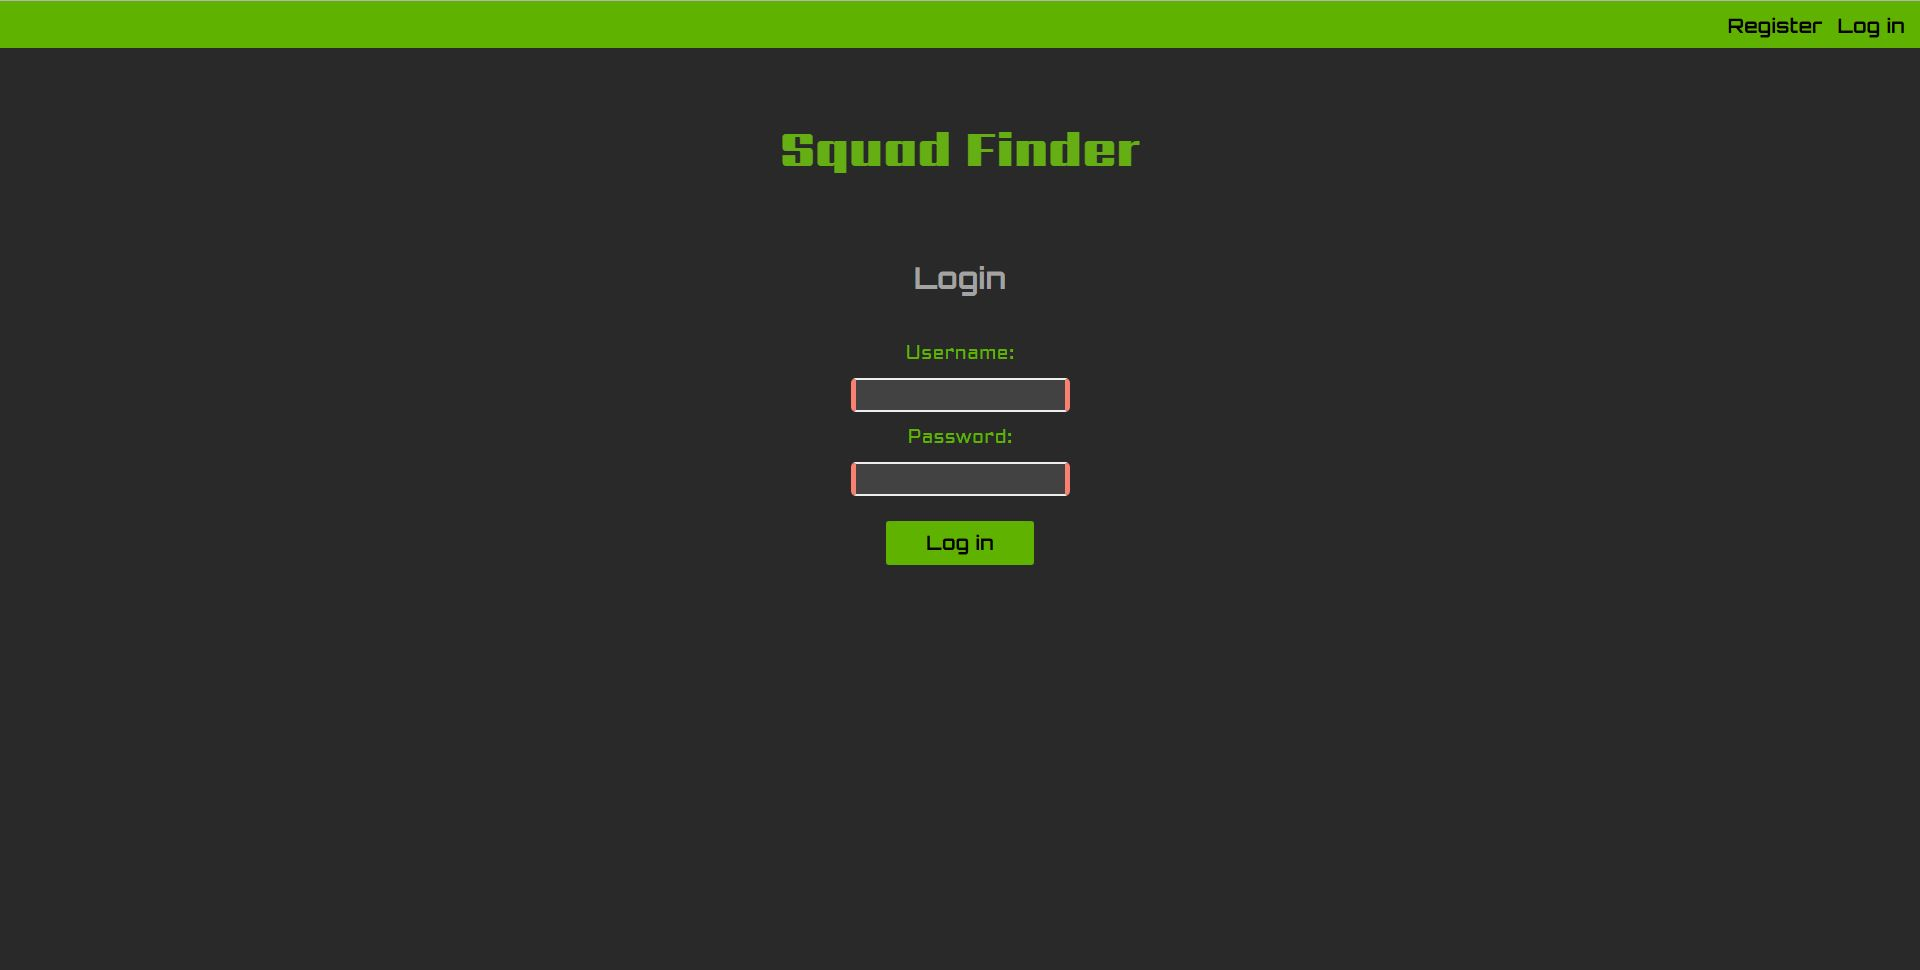
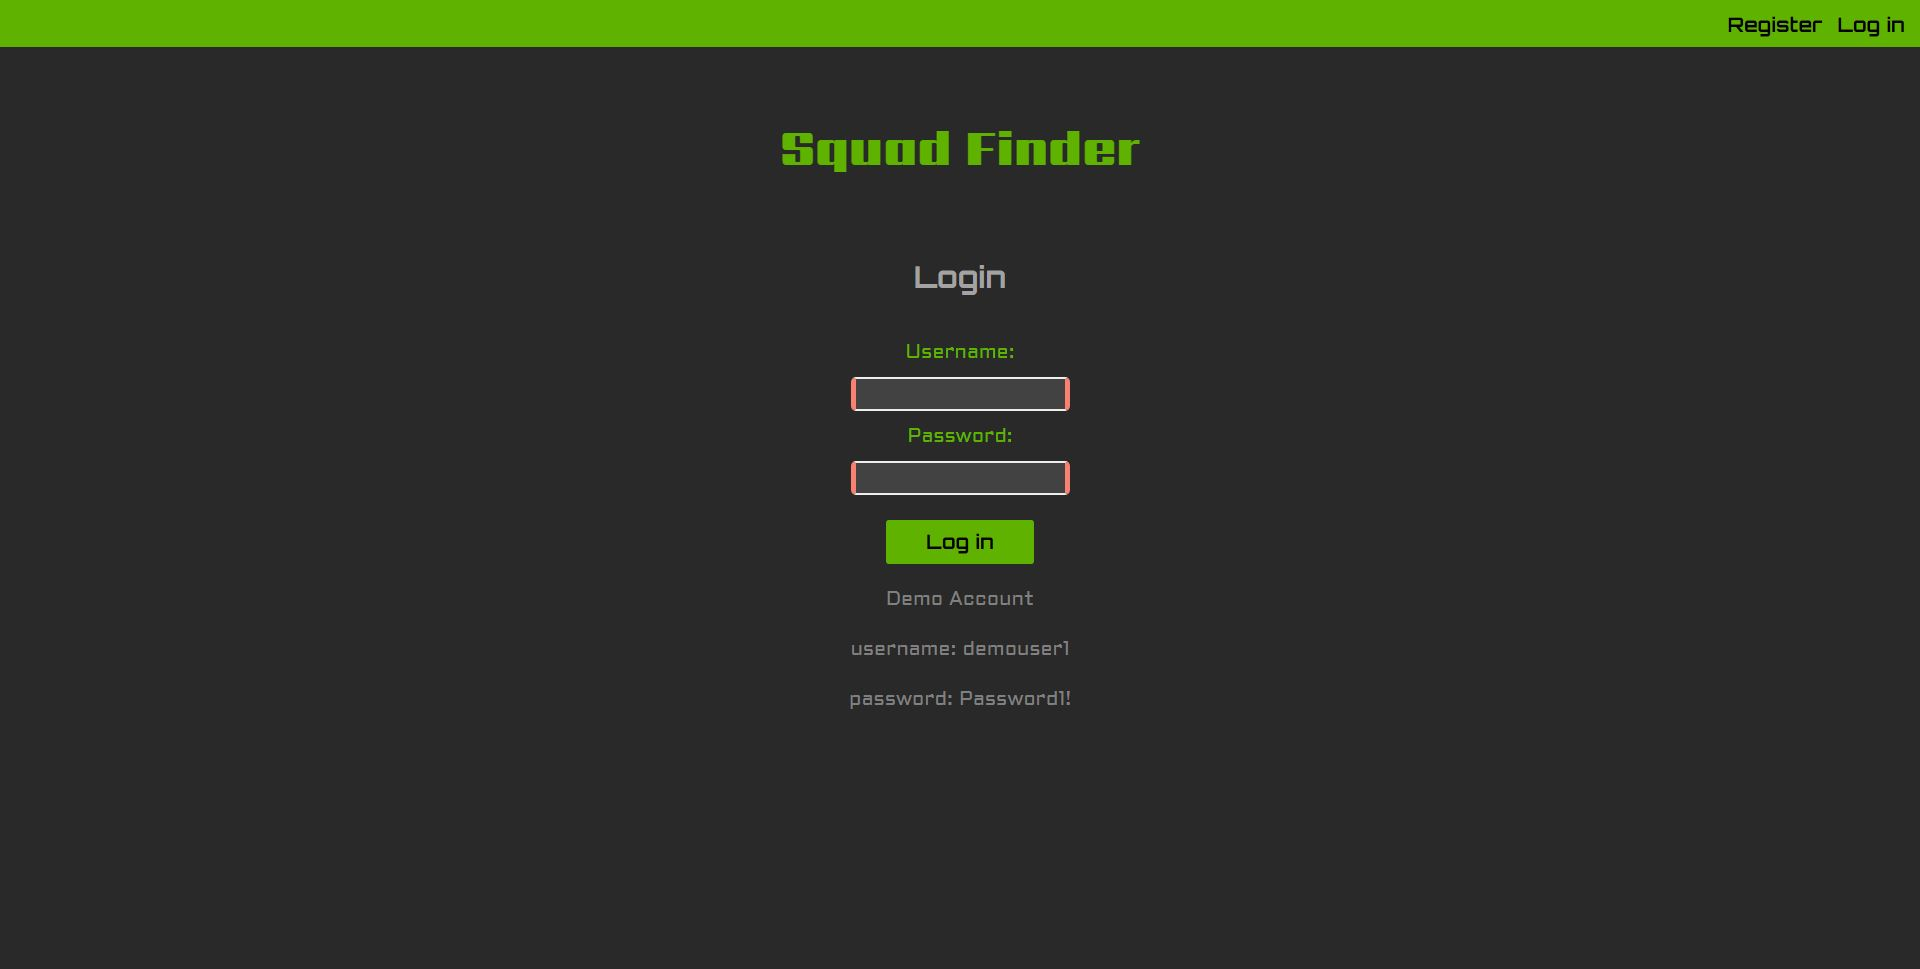
screenshot update

diff --git a/src/LoginForm/LoginForm.js b/src/LoginForm/LoginForm.js
@@ -64,10 +64,9 @@ export default class LoginForm extends React.Component {
                         </div>
                         <Button className="login-submit" type="submit">Log in</Button>
                     </form>
-                    <h3>Demo</h3>
-                <p>username: demouser1</p>
-                <p>password: Password1!</p>
-                <p>or you can register an account.</p>
+                    <p>Demo Account</p>
+                    <p>username: demouser1</p>
+                    <p>password: Password1!</p>
                 </fieldset>
             </section>
         )

diff --git a/src/landingPage/landingPage.js b/src/landingPage/landingPage.js
@@ -6,6 +6,10 @@ export default class RegistrationForm extends React.Component {
         return (
             <section className="landing-page">
                 <p>Squad finder helps you find others that play the same battle royale game and to team up with each other</p>
+                <h3>Demo</h3>
+                <p>username: demouser1</p>
+                <p>password: Password1!</p>
+                <p>or you can register an account.</p>
             </section>
         )
     }
